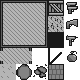
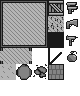
Add grenade + impact + normals + lights

diff --git a/left-4-dead/weapons.js b/left-4-dead/weapons.js
@@ -1,30 +1,46 @@
 class Weapon {
-  constructor(scene) {
+  constructor(scene, rate, damage) {
     this.scene = scene;
+    this.rate = rate;
+    this.damage = damage;
+    this.lastShotTime = scene.time.now;
   }
 
   // to override
   getHitZone() {}
+  showImpacts(hitZone) {}
 
   shoot() {
-    var hitZone = this.getHitZone();
+    if((this.scene.time.now - this.lastShotTime) > this.rate) {
 
-    // show hitzone
-    var graphics = this.scene.add.graphics({ lineStyle: { width: 2, color: 0xaa6622 } });
-    graphics.strokePoints(hitZone.points, true);
+      this.lastShotTime = this.scene.time.now;
 
-    for(var i=0; i<this.scene.enemies.group.length; i++) {
-      var enemy = this.scene.enemies.group[i];
-      if(hitZone.contains(enemy.sprite.x, enemy.sprite.y)) {
-        enemy.isHit();
-      }
-    };
+      var hitZone = this.getHitZone();
+
+      // show hitzone
+      /*var graphics = this.scene.add.graphics({ lineStyle: { width: 2, color: 0xaa6622 } });
+      if(hitZone.constructor.name == "Circle") {
+        graphics.strokeCircleShape(hitZone)
+      } else {
+        graphics.strokePoints(hitZone.points, true);
+      }*/
+
+      // show random bullet impacts inside hitZone
+      this.showImpacts(hitZone);
+
+      for(var i=0; i<this.scene.enemies.group.length; i++) {
+        var enemy = this.scene.enemies.group[i];
+        if(hitZone.contains(enemy.sprite.x, enemy.sprite.y)) {
+          enemy.isHit(this.damage);
+        }
+      };
+    }
   }
 }
 
 class Pistol extends Weapon {
-  constructor(scene) {
-    super(scene);
+  constructor(scene, rate, damage) {
+    super(scene, rate, damage);
     this.name = "pistol";
     this.index = Pistol.index;
   }
@@ -97,12 +113,20 @@ class Pistol extends Weapon {
 
     return hitZone;
   }
+
+  showImpacts(hitZone) {
+    var rect = Phaser.Geom.Polygon.GetAABB(hitZone);
+    var p1 = rect.getRandomPoint()
+    var p2 = rect.getRandomPoint()
+    new Impact(this.scene, p1.x, p1.y);
+    new Impact(this.scene, p2.x, p2.y);
+  }
 }
 Pistol.index = 5;
 
 class Shotgun extends Weapon {
-  constructor(scene) {
-    super(scene);
+  constructor(scene, rate, damage) {
+    super(scene, rate, damage);
     this.name = "shotgun";
     this.index = Shotgun.index;
   }
@@ -160,12 +184,22 @@ class Shotgun extends Weapon {
 
     return hitZone;
   }
+
+  showImpacts(hitZone) {
+    var triangle = new Phaser.Geom.Triangle(hitZone.points[0].x, hitZone.points[0].y,
+      hitZone.points[1].x, hitZone.points[1].y, hitZone.points[2].x, hitZone.points[2].y);
+
+    for(var i=0; i<5; i++) {
+      var point = triangle.getRandomPoint()
+      var impact = new Impact(this.scene, point.x, point.y);
+    }
+  }
 }
 Shotgun.index = 10;
 
 class Uzi extends Weapon {
-  constructor(scene) {
-    super(scene);
+  constructor(scene, rate, damage) {
+    super(scene, rate, damage);
     this.name = "uzi";
     this.index = Uzi.index;
   }
@@ -238,18 +272,103 @@ class Uzi extends Weapon {
 
     return hitZone;
   }
+
+  showImpacts(hitZone) {
+    var rect = Phaser.Geom.Polygon.GetAABB(hitZone);
+    var point = rect.getRandomPoint()
+    var impact = new Impact(this.scene, point.x, point.y);
+  }
 }
 Uzi.index = 15;
 
 class Grenade extends Weapon {
-  constructor(scene) {
-    super(scene);
+  constructor(scene, rate, damage) {
+    super(scene, rate, damage);
     this.name = "grenade";
     this.index = Grenade.index;
   }
 
-  shoot() {
-    console.log("shooting a grenade");
+  getHitZone() {
+    var hitZone;
+    var x = this.scene.player.sprite.x;
+    var y = this.scene.player.sprite.y;
+    var h = 16*10
+    var r = 16*3;
+
+    switch(this.scene.player.direction) {
+      case "up":
+        hitZone = new Phaser.Geom.Circle(x, y-h, r);
+        break;
+      case "down":
+        hitZone = new Phaser.Geom.Circle(x, y+h, r);
+        break;
+      case "left":
+        hitZone = new Phaser.Geom.Circle(x-h, y, r);
+        break;
+      case "right":
+        hitZone = new Phaser.Geom.Circle(x+h, y, r);
+        break;
+      case "upleft":
+        hitZone = new Phaser.Geom.Circle(x-h*2/3, y-h*2/3, r);
+        break;
+      case "upright":
+        hitZone = new Phaser.Geom.Circle(x+h*2/3, y-h*2/3, r);
+        break;
+      case "downleft":
+        hitZone = new Phaser.Geom.Circle(x-h*2/3, y+h*2/3, r);
+        break;
+      case "downright":
+        hitZone = new Phaser.Geom.Circle(x+h*2/3, y+h*2/3, r);
+        break;
+    }
+
+    return hitZone;
+  }
+
+  showImpacts(hitZone) {
+    this.sprite = this.scene.physics.add.sprite(hitZone.x, hitZone.y, 'grenade');
+    this.sprite.setDepth(3);
+
+    if(!this.scene.anims.anims.has('grenade-explosion')) {
+      this.scene.anims.create({
+        key: 'grenade-explosion',
+        frames: this.scene.anims.generateFrameNumbers('grenade', {start:0, end:3}),
+        frameRate: 6
+      });
+    }
+
+    this.sprite.on('animationcomplete', function(animation) {
+      if(animation.key == "grenade-explosion") {
+          this.sprite.destroy();
+      }
+    }, this);
+
+    this.sprite.anims.play('grenade-explosion', true);
   }
 }
 Grenade.index = 20;
+
+class Impact {
+  constructor(scene, x, y) {
+    this.scene = scene;
+
+    this.sprite = scene.physics.add.sprite(x, y, 'impact');
+    this.sprite.setDepth(3);
+
+    if(!this.scene.anims.anims.has('impact-anim')) {
+      this.scene.anims.create({
+        key: 'impact-anim',
+        frames: this.scene.anims.generateFrameNumbers('impact', {start:0, end:2}),
+        frameRate: 12
+      });
+    }
+
+    this.sprite.on('animationcomplete', function(animation) {
+      if(animation.key == "impact-anim") {
+          this.sprite.destroy();
+      }
+    }, this);
+
+    this.sprite.anims.play('impact-anim', true);
+  }
+}

diff --git a/left-4-dead/player.js b/left-4-dead/player.js
@@ -2,7 +2,7 @@ class Player {
   constructor(scene) {
     this.scene = scene;
 
-    this.sprite = scene.physics.add.sprite(128, 128, 'player');
+    this.sprite = scene.physics.add.sprite(128, 128, 'player');//.setPipeline("Light2D");
     this.sprite.setCollideWorldBounds(true);
     this.sprite.setDepth(2);
     this.direction = "up";
@@ -127,16 +127,16 @@ class Player {
   pick_weapon(tile) {
     switch(tile.index) {
       case Pistol.index:
-        this.weapon = new Pistol(this.scene);
+        this.weapon = new Pistol(this.scene, 200, 100);
         break;
       case Shotgun.index:
-        this.weapon = new Shotgun(this.scene);
+        this.weapon = new Shotgun(this.scene, 1000, 35);
         break;
       case Uzi.index:
-        this.weapon = new Uzi(this.scene);
+        this.weapon = new Uzi(this.scene, 70, 50);
         break;
       case Grenade.index:
-        this.weapon = new Grenade(this.scene);
+        this.weapon = new Grenade(this.scene, 2000, 100);
         break;
     }
     this.scene.tilemap.removeTileAtWorldXY(this.sprite.x, this.sprite.y, undefined, undefined, undefined, 1);

diff --git a/left-4-dead/game.js b/left-4-dead/game.js
@@ -13,11 +13,17 @@ window.Game = new Phaser.Class({
   preload: function() {
     this.load.image("forest", ["assets/forest.png", "assets/forest-n.png"]);
     this.load.tilemapTiledJSON("forestTilemap", "assets/forest.json");
-    this.load.spritesheet('player', 'assets/player.png', {
+    this.load.spritesheet('player', ['assets/player.png', 'assets/player-n.png'], {
       frameWidth: 16, frameHeight: 16
     });
-    this.load.spritesheet('enemy', 'assets/enemy.png', {
+    this.load.spritesheet('enemy', ['assets/enemy.png', 'assets/enemy-n.png'], {
       frameWidth: 16, frameHeight: 16
+    });
+    this.load.spritesheet('impact', 'assets/impact.png', {
+      frameWidth: 16, frameHeight: 16
+    });
+    this.load.spritesheet('grenade', 'assets/grenade.png', {
+      frameWidth: 64, frameHeight: 64
     });
   },
 

diff --git a/left-4-dead/enemies.js b/left-4-dead/enemies.js
@@ -14,11 +14,17 @@ class Enemy {
   constructor(scene) {
     this.scene = scene;
 
-    this.sprite = scene.physics.add.sprite(228, 128, 'enemy');
+    this.sprite = scene.physics.add.sprite(228, 128, 'enemy');//.setPipeline('Light2D');;
     this.sprite.setDepth(2);
+
+    this.hp = 100;
   }
 
-  isHit() {
+  isHit(damage) {
     console.log("Enemy is hit");
+    this.hp -= damage;
+    if(this.hp <= 0) {
+      console.log("Enemy is dead");
+    }
   }
 }

diff --git a/left-4-dead/lights.js b/left-4-dead/lights.js
@@ -3,7 +3,7 @@ class Lights {
     this.scene = scene;
 
     this.main = scene.lights.addLight(scene.player.sprite.x, scene.player.sprite.y, 100);
-    this.main.setColor(0xffffff).setIntensity(1.7);
+    this.main.setColor(0xffffff).setIntensity(1);
 
     scene.lights.enable().setAmbientColor(0x111111);
   }
